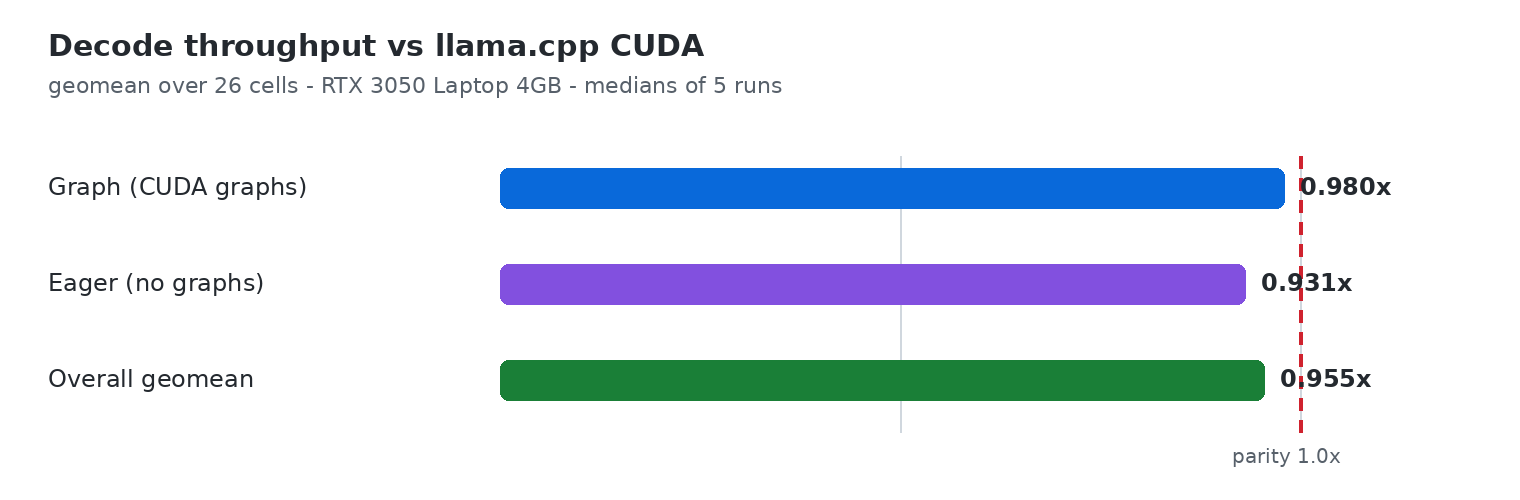
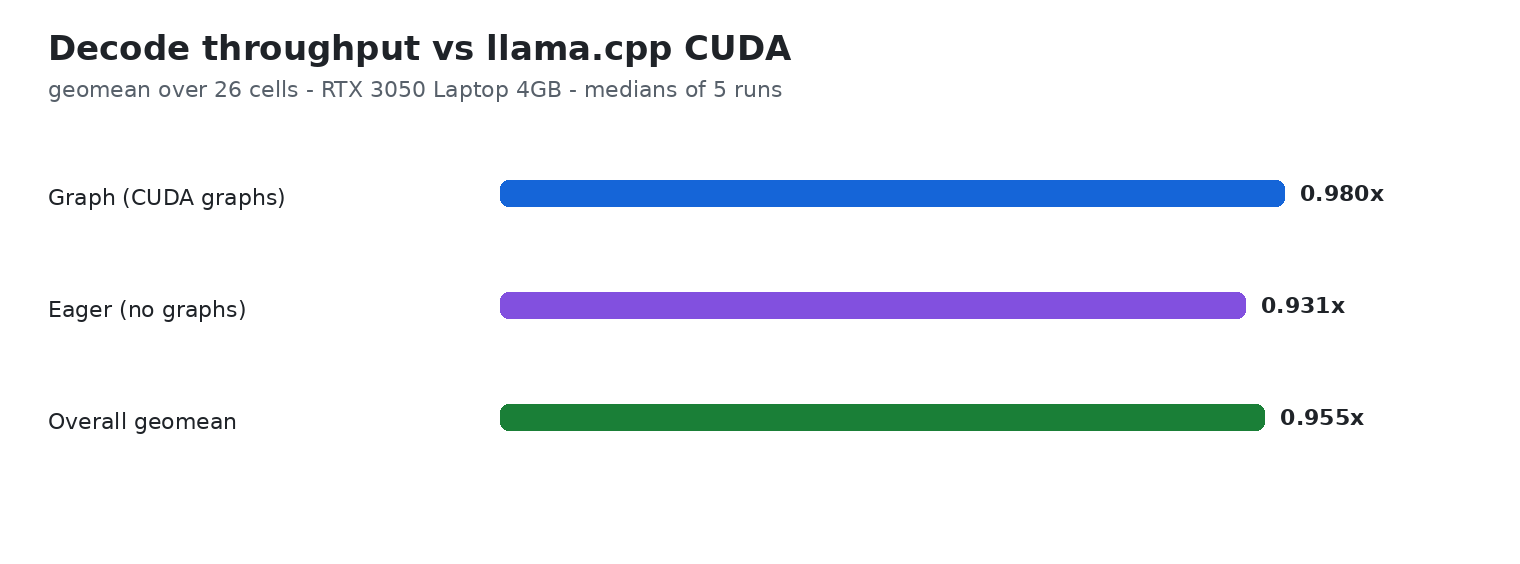
Restyle decode charts to match paired bar theme

diff --git a/bench/make_charts_png.py b/bench/make_charts_png.py
@@ -2,13 +2,13 @@ import csv, math
 from PIL import Image, ImageDraw, ImageFont
 CSV = 'bench/scoreboard_decode.csv'
 SC = 2
-INK = (36,41,47); MUT = (87,96,106); GRID = (208,215,222); PAR = (207,34,46)
-BLUE = (9,105,218); PURP = (130,80,223); GRN = (26,127,55); RED = (207,34,46); GREY = (140,149,159)
-BG = (255,255,255)
+INK = (31, 35, 40); MUT = (87, 96, 106)
+BLUE = (21, 101, 216); PURP = (130, 80, 223); GRN = (26, 127, 55); RED = (207, 34, 46); GREY = (138, 148, 160)
+BG = (255, 255, 255)
 FD = '/usr/share/fonts/truetype/dejavu/DejaVuSans.ttf'
 FB = '/usr/share/fonts/truetype/dejavu/DejaVuSans-Bold.ttf'
 def F(sz, bold=False):
-    return ImageFont.truetype(FB if bold else FD, sz*SC)
+    return ImageFont.truetype(FB if bold else FD, sz * SC)
 SHORT = {'qwen2.5-0.5b-instruct': 'qwen2.5-0.5b', 'smollm2-135m-instruct': 'smollm2-135m',
          'qwen3-0.6b': 'qwen3-0.6b', 'llama-3.2-1b': 'llama-3.2-1b', 'gemma-4-E2B-it': 'gemma-4-E2B'}
 def load():
@@ -16,73 +16,65 @@ def load():
     for r in rows:
         r['ratio'] = float(r['ratio']); r['ours'] = float(r['ours_tg_tps']); r['oracle'] = float(r['oracle_tg_tps'])
         r['ctx'] = int(r['ctx']); r['short'] = SHORT.get(r['model'], r['model'])
+        r['cell'] = '%s ctx%d %s' % (r['short'], r['ctx'], r['quant'])
     return rows
 def gm(xs):
     return math.exp(sum(math.log(x) for x in xs) / len(xs))
 def save(img, name):
     img.save('docs/assets/' + name)
     print('wrote', name, img.size)
-def dash(d, x, y0, y1, fill):
-    yy = y0
-    while yy < y1:
-        d.line([x, yy, x, min(yy+6*SC, y1)], fill=fill, width=2*SC)
-        yy += 11*SC
+def head(d, title, sub):
+    d.text((24 * SC, 14 * SC), title, fill=INK, font=F(17, True))
+    d.text((24 * SC, 38 * SC), sub, fill=MUT, font=F(11))
+def bar(d, x0, y, x1, h=13, fill=BLUE):
+    d.rounded_rectangle([x0, y, x1, y + h * SC], radius=4 * SC, fill=fill)
 def geomean(rows):
     g = gm([r['ratio'] for r in rows if r['mode'] == 'graph'])
     e = gm([r['ratio'] for r in rows if r['mode'] == 'eager'])
     a = gm([r['ratio'] for r in rows])
     items = [('Graph (CUDA graphs)', g, BLUE), ('Eager (no graphs)', e, PURP), ('Overall geomean', a, GRN)]
-    W, H, x0, x1, top, rh, vmax = 760, 250, 250, 690, 78, 48, 1.1
-    img = Image.new('RGB', (W*SC, H*SC), BG); d = ImageDraw.Draw(img)
+    W, x0, x1, top, rh, vmax = 760, 250, 690, 84, 56, 1.1
+    H = top + len(items) * rh + 30
+    img = Image.new('RGB', (W * SC, H * SC), BG); d = ImageDraw.Draw(img)
     def X(v): return (x0 + (x1 - x0) * v / vmax) * SC
-    d.text((24*SC, 14*SC), 'Decode throughput vs llama.cpp CUDA', fill=INK, font=F(15, True))
-    d.text((24*SC, 36*SC), 'geomean over 26 cells - RTX 3050 Laptop 4GB - medians of 5 runs', fill=MUT, font=F(11))
-    for v in (0.5, 1.0):
-        d.line([X(v), top*SC, X(v), (H-34)*SC], fill=GRID, width=SC)
-    dash(d, X(1.0), top*SC, (H-34)*SC, PAR)
-    d.text((X(1.0)-34*SC, (H-28)*SC), 'parity 1.0x', fill=MUT, font=F(10))
+    head(d, 'Decode throughput vs llama.cpp CUDA', 'geomean over 26 cells - RTX 3050 Laptop 4GB - medians of 5 runs')
     for i, it in enumerate(items):
-        y = (top + i*rh) * SC
-        d.text((24*SC, y+8*SC), it[0], fill=INK, font=F(12))
-        d.rounded_rectangle([X(0), y+6*SC, X(it[1]), y+26*SC], radius=4*SC, fill=it[2])
-        d.text((X(it[1])+8*SC, y+8*SC), '%.3fx' % it[1], fill=INK, font=F(12, True))
+        y = (top + i * rh) * SC
+        d.text((24 * SC, y + 8 * SC), it[0], fill=INK, font=F(11))
+        bar(d, X(0), y + 6 * SC, X(it[1]), fill=it[2])
+        d.text((X(it[1]) + 8 * SC, y + 6 * SC), '%.3fx' % it[1], fill=INK, font=F(11, True))
     save(img, 'decode_geomean.png')
 def parity(rows):
     cells = sorted([r for r in rows if r['mode'] == 'graph'], key=lambda r: -r['ratio'])
-    W, x0, x1, top, rh, vmax = 830, 320, 740, 78, 44, 1.4
-    H = top + len(cells)*rh + 38
-    img = Image.new('RGB', (W*SC, H*SC), BG); d = ImageDraw.Draw(img)
+    W, x0, x1, top, rh, vmax = 900, 320, 730, 84, 46, 1.55
+    H = top + len(cells) * rh + 30
+    img = Image.new('RGB', (W * SC, H * SC), BG); d = ImageDraw.Draw(img)
     def X(v): return (x0 + (x1 - x0) * v / vmax) * SC
-    d.text((24*SC, 14*SC), 'Per-cell decode parity - graph mode (ours / oracle)', fill=INK, font=F(15, True))
-    d.text((24*SC, 36*SC), 'sorted best to worst - green beats llama.cpp CUDA', fill=MUT, font=F(11))
-    for v in (0.5, 1.0):
-        d.line([X(v), top*SC, X(v), (H-34)*SC], fill=GRID, width=SC)
-    dash(d, X(1.0), top*SC, (H-34)*SC, PAR)
-    d.text((X(1.0)-20*SC, (H-28)*SC), 'parity', fill=MUT, font=F(10))
+    head(d, 'Per-cell decode parity - graph mode (ours / oracle)', 'sorted best to worst - green beats llama.cpp CUDA')
     for i, r in enumerate(cells):
-        y = (top + i*rh) * SC
+        y = (top + i * rh) * SC
         col = GRN if r['ratio'] >= 1.0 else RED
-        d.text((24*SC, y+2*SC), '%s ctx%d %s' % (r['short'], r['ctx'], r['quant']), fill=INK, font=F(11))
-        d.text((24*SC, y+19*SC), '%.0f vs %.0f tok/s' % (r['ours'], r['oracle']), fill=MUT, font=F(10))
-        d.rounded_rectangle([X(0), y+5*SC, X(r['ratio']), y+27*SC], radius=4*SC, fill=col)
-        d.text((X(r['ratio'])+8*SC, y+9*SC), '%.2fx' % r['ratio'], fill=INK, font=F(11, True))
+        d.text((24 * SC, y + 8 * SC), r['cell'], fill=INK, font=F(11))
+        bar(d, X(0), y + 6 * SC, X(r['ratio']), fill=col)
+        d.text((X(r['ratio']) + 8 * SC, y + 6 * SC), '%.2fx' % r['ratio'], fill=INK, font=F(11, True))
+        vx = X(r['ratio']) + (8 + 52) * SC
+        d.text((vx, y + 6 * SC), '%.0f vs %.0f' % (r['ours'], r['oracle']), fill=MUT, font=F(10))
     save(img, 'decode_parity_cells.png')
 def tps(rows):
     cells = sorted([r for r in rows if r['mode'] == 'graph'], key=lambda r: (r['short'], r['ctx']))
-    W, x0, x1, top, rh = 830, 320, 750, 78, 50
-    H = top + len(cells)*rh + 38
+    W, x0, x1, top, rh = 830, 320, 750, 84, 50
+    H = top + len(cells) * rh + 30
     vmax = max(max(r['ours'], r['oracle']) for r in cells) * 1.24
-    img = Image.new('RGB', (W*SC, H*SC), BG); d = ImageDraw.Draw(img)
+    img = Image.new('RGB', (W * SC, H * SC), BG); d = ImageDraw.Draw(img)
     def X(v): return (x0 + (x1 - x0) * v / vmax) * SC
-    d.text((24*SC, 14*SC), 'Decode tok/s - ours (blue) vs llama.cpp CUDA (grey)', fill=INK, font=F(15, True))
-    d.text((24*SC, 36*SC), 'graph mode - higher is better', fill=MUT, font=F(11))
+    head(d, 'Decode tok/s - ours (blue) vs llama.cpp CUDA (grey)', 'graph mode - higher is better')
     for i, r in enumerate(cells):
-        y = (top + i*rh) * SC
-        d.text((24*SC, y+14*SC), '%s ctx%d %s' % (r['short'], r['ctx'], r['quant']), fill=INK, font=F(11))
-        d.rounded_rectangle([X(0), y+2*SC, X(r['ours']), y+15*SC], radius=3*SC, fill=BLUE)
-        d.text((X(r['ours'])+6*SC, y+2*SC), '%.0f' % r['ours'], fill=INK, font=F(10, True))
-        d.rounded_rectangle([X(0), y+19*SC, X(r['oracle']), y+32*SC], radius=3*SC, fill=GREY)
-        d.text((X(r['oracle'])+6*SC, y+19*SC), '%.0f' % r['oracle'], fill=MUT, font=F(10))
+        y = (top + i * rh) * SC
+        d.text((24 * SC, y + 12 * SC), r['cell'], fill=INK, font=F(11))
+        bar(d, X(0), y + 2 * SC, X(r['ours']), fill=BLUE)
+        d.text((X(r['ours']) + 6 * SC, y + 2 * SC), '%.0f' % r['ours'], fill=INK, font=F(10, True))
+        bar(d, X(0), y + 19 * SC, X(r['oracle']), fill=GREY)
+        d.text((X(r['oracle']) + 6 * SC, y + 19 * SC), '%.0f' % r['oracle'], fill=MUT, font=F(10))
     save(img, 'decode_tps.png')
 rows = load()
 geomean(rows); parity(rows); tps(rows)
